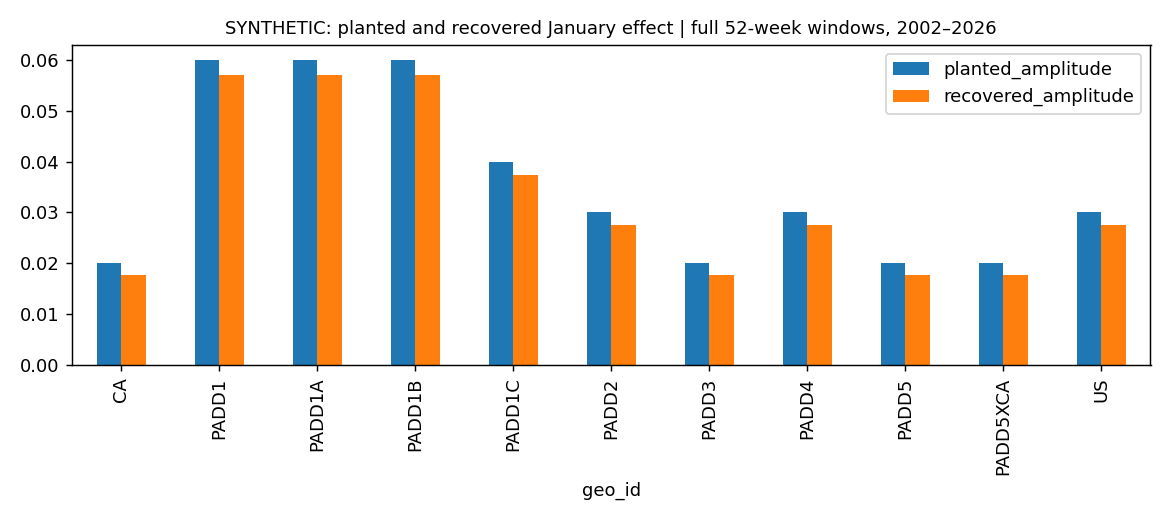
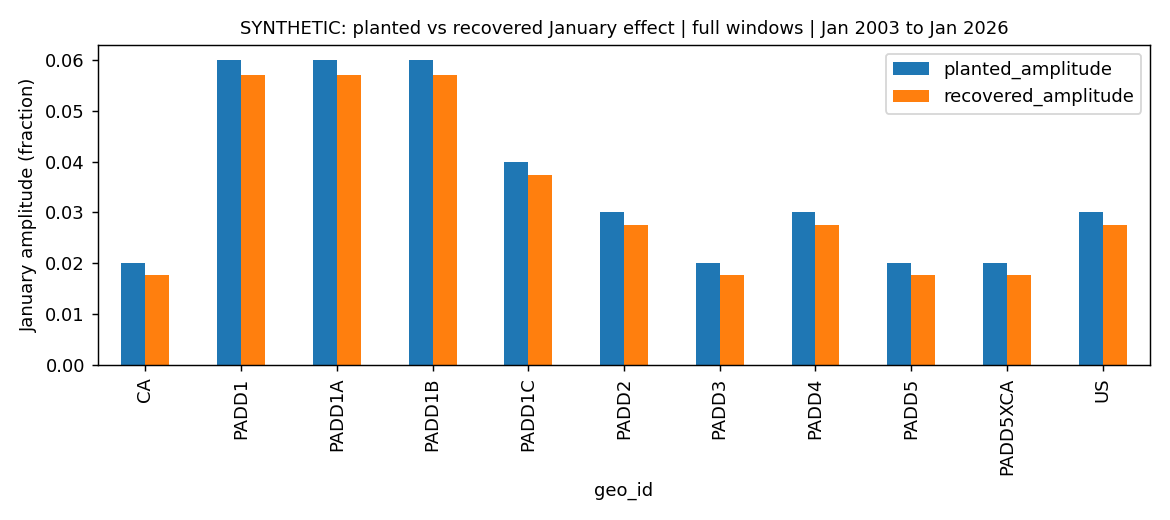
phase-8: prepare documented public synthetic preview

diff --git a/local/write_reports.py b/local/write_reports.py
@@ -42,6 +42,7 @@ The next stage is real-source profiling and contract validation. Synthetic outpu
  validations=['Named checks map to all BR/FR/NFR IDs in docs/traceability.md. The six-week example is computed in SQL.','All eight traps matched expected values. Six synthetic profiling answers are recorded in docs/SYNTHETIC_profile_checklist.md. The real-source gate is NOT RUN.','Initial 14,163 accepted rows; incremental 14,174; repeat unchanged; corrupt week blocked. 44 normalized dates, 2 initial quarantines and 5 missing clean pairs.','85,044 scenario rows. The planted PADD4 March 2011 monthly reset moves to March 28; other reset periods have no substitutions.','INV-01 through INV-05 pass. E1 and E3 pass all regions. E2 passes both regimes. Exact errors and confusion matrix are saved as CSVs.','All four app pages and a PADD4 quarterly/clause selection passed AppTest. Prose numbers trace to SQL result rows. Snowflake app NOT RUN.','Local checks and two local teardown calls pass. Snowflake execution/teardown and live weekly operation are NOT RUN. Deployment remains gated.']
  fixes=['The owner approved passing unchanged reruns, resolving the BR-17 conflict.','DuckDB rejected rows as an implicit alias; it was renamed row_count. Expected counts stayed unchanged.','A last-reviewed source-state audit avoids repeatedly treating quarantined history as new. Valid correction/reversion tests passed.','Date joins enforce exact calendar lags and four-week comparisons; missing observations are not filled.','DuckDB rejected weeks and error as implicit aliases; explicit aliases fixed them. Final repeatability checks exposed sensitivity state leaking into baseline outputs. Each sensitivity scenario now runs in a transaction that is rolled back, with assertions that both parameters and weekly rows are unchanged. No source values or expected answers were changed.','App tests revealed a Streamlit width deprecation; the argument was updated.','A report-generation command initially used the wrong working directory and wrote no files; rerunning from the project parent fixed it. GitHub sign-in was required to create the repository.']
  lessons=[('Shared formulas isolate timing.','Region is a dimension, not a lever.','The zero control proves the baseline.','Exposure is created in contracting.'),('Raw values complement metadata.','Ten regions were absent from the index.','Decoys test source selection.','National-only data can still support the mechanism.'),('Transactions protect accepted state.','Corruption leaves accepted history unchanged.','Repeatability includes no-op reruns.','Block a bad batch before pricing analysis.'),('FIRST_VALUE holds reset prices.','A missing reset moves to the next available week.','Shared lags preserve the control.','Different schedules create exposure.'),('Summaries reconcile to detail.','Recovery is expected for planted effects.','Positive means can hide adverse weeks.','Review downside distributions.'),('Model views serve the app.','Freshness follows accepted observations.','Narration uses existing numbers.','A markup requires commercial acceptance.'),('Phase branches preserve review history.','Real and synthetic data remain separate.','Local success is not deployment proof.','Scaling requires contract and volume evidence.')]
+ validation_tables=['| Check | Expected | Observed | Status |\n|---|---|---|---|\n| Six-week worked example | Six displayed weeks, nonnegative carrier surcharge | Six rows; carrier surcharge floors at zero | PASS |\n| Identical initial reset | Zero first-week spread | 0.000000 | PASS |', '| Check | Expected | Observed | Status |\n|---|---|---|---|\n| Source records | 14,947 | 14,947 | PASS |\n| Planted traps | T1 through T8 detected | 8 of 8 | PASS |', '| Check | Expected | Observed | Status |\n|---|---|---|---|\n| Initial accepted records | 14,163 | 14,163 | PASS |\n| Accepted after valid update | 14,174 | 14,174 | PASS |\n| Unchanged rerun | 0 inserts, 0 updates | 0 inserts, 0 updates | PASS |\n| Corrupt batch | BLOCKED; accepted count unchanged | BLOCKED; 14,174 | PASS |', '| Check | Expected | Observed | Status |\n|---|---|---|---|\n| Six-scenario detail | 85,044 rows | 85,044 rows | PASS |\n| PADD4 March 2011 monthly substitution | March 28 | March 28 | PASS |', '| Check | Expected | Observed | Status |\n|---|---|---|---|\n| INV-01 through INV-05 | Zero failing rows | Zero failing rows | PASS |\n| E1 maximum error | At most 1 percentage point | 0.29374 percentage points | PASS |\n| E2 rising / falling | At least 70% each | 93.59% / 89.74% | PASS |\n| E3 maximum error | At most 1 percentage point | 0.05497 percentage points | PASS |\n| E4 sign compliance | 100% | 100% | PASS |', '| Check | Expected | Observed | Status |\n|---|---|---|---|\n| Local app pages | Four pages without test exceptions | Four pages pass AppTest | PASS |\n| Alternate selection | PADD4 quarterly with clause works | AppTest passes | PASS |\n| Snowflake app | Deployment evidence | Not executed | UNVERIFIED |', '| Check | Expected | Observed | Status |\n|---|---|---|---|\n| Local targeted tests | Ten pass | Ten pass in recorded rerun | PASS |\n| Local teardown | Safe repeated execution | Two calls pass in phase-6 log | PASS |\n| Snowflake deployment / teardown | Executed and reviewed | Not executed | UNVERIFIED |']
  for i in range(7):
   evidence=[str(p.relative_to(ROOT)) for p in sorted((ROOT/f'outputs/phase_{i}').glob('*')) if p.name!='REPORT.md']
   technical,data,analytical,business=lessons[i]
@@ -57,6 +58,10 @@ Sample results:
 
 {results[i]}
 Validation: {validations[i]}
+
+{validation_tables[i]}
+
+Table evidence: existing phase CSVs and outputs/review/INDEPENDENT_CHECKS.json; execution evidence is in outputs/review/RERUN_LOG.txt and outputs/phase_6/SYNTHETIC_verification_log.txt.
 
 Surprises and fixes: {fixes[i]}
 

diff --git a/local/analyze.py b/local/analyze.py
@@ -41,12 +41,12 @@ def analyze(c):
  series=c.sql("SELECT week_date,scenario_id,spread FROM model.dt_margin_spread WHERE geo_id='US' AND scenario_id IN ('S1','S3','S5') ORDER BY week_date").df()
  fig,ax=plt.subplots(figsize=(11,4))
  for s,g in series.groupby('scenario_id'):ax.plot(g.week_date,g.spread,label=s,lw=.8)
- ax.axhline(0,color='black',lw=.6);ax.legend();ax.set_ylabel('Dollars per mile');save('SYNTHETIC_spread.png','slower resets create timing exposure | US | 2002-01-07 to 2026-09-14')
+ ax.axhline(0,color='black',lw=.6);ax.legend();ax.set_ylabel('Dollars per mile');save('SYNTHETIC_spread.png','slower resets create timing exposure | US | 2002-01-07 to 2026-09-14 | includes partial current periods')
  h=regime[(regime.geo_id=='US')&(regime.scenario_id=='S5')].pivot(index='regime',columns='season',values='mean_spread')
  fig,ax=plt.subplots(figsize=(7,4));im=ax.imshow(h.values,cmap='RdBu',vmin=-.2,vmax=.2);ax.set_xticks(range(len(h.columns)),h.columns);ax.set_yticks(range(len(h.index)),h.index);fig.colorbar(im,label='Dollars per mile');save('SYNTHETIC_regime_season.png','regime and season averages | S5 US | 2002-01-07 to 2026-06-29')
  x=clause[(clause.geo_id=='US')&(clause.season=='HEATING')];x.plot.bar(x='scenario_id',y=['squeeze_without','squeeze_with'],figsize=(7,4));plt.ylim(bottom=0);plt.ylabel('Mean negative spread magnitude ($/mile)');save('SYNTHETIC_clause.png','clause reduces modeled heating squeeze | US | completed periods through 2026-08')
- seasonal.plot.bar(x='geo_id',y=['planted_amplitude','recovered_amplitude'],figsize=(9,4));plt.ylim(bottom=0);save('SYNTHETIC_recovery.png','planted and recovered January effect | full 52-week windows, 2002–2026')
- regions=pd.read_csv(out/'SYNTHETIC_regions_common_window.csv');regions[regions.scenario_id=='S5'].plot.bar(x='geo_id',y='mean_spread',figsize=(9,4));plt.axhline(0,color='black',lw=.6);save('SYNTHETIC_regions.png','same-week regional exposure comparison | S5 | 2002-01-07 to 2026-06-29')
+ seasonal.plot.bar(x='geo_id',y=['planted_amplitude','recovered_amplitude'],figsize=(9,4));plt.ylim(bottom=0);plt.ylabel('January amplitude (fraction)');save('SYNTHETIC_recovery.png','planted vs recovered January effect | full windows | Jan 2003 to Jan 2026')
+ regions=pd.read_csv(out/'SYNTHETIC_regions_common_window.csv');regions[regions.scenario_id=='S5'].plot.bar(x='geo_id',y='mean_spread',figsize=(9,4));plt.axhline(0,color='black',lw=.6);plt.ylabel('Mean spread ($/mile)');save('SYNTHETIC_regions.png','same-week regional exposure comparison | S5 | 2002-01-07 to 2026-06-29')
  # Known-answer six-week example, computed by SQL.
  export(c,"""WITH v AS (SELECT * FROM (VALUES (DATE '2026-01-05',2.45),(DATE '2026-01-12',2.75),(DATE '2026-01-19',3.05),(DATE '2026-01-26',2.15),(DATE '2026-02-02',1.25),(DATE '2026-02-09',1.10)) t(week_date,price)), f AS (SELECT *,GREATEST(0,(price-1.25)/6) carrier_fsc,GREATEST(0,(FIRST_VALUE(price) OVER(ORDER BY week_date)-1.25)/6) shipper_fsc FROM v) SELECT *,shipper_fsc-carrier_fsc spread FROM f ORDER BY week_date""",'outputs/phase_0/SYNTHETIC_six_week_example.csv')
  # SQL-derived memo rows used verbatim by report writer.

diff --git a/docs/publication_status.md b/docs/publication_status.md
@@ -1,0 +1,36 @@
+# Public preview status
+
+Prepared September 25, 2026. Scope: a reproducible SYNTHETIC demonstration for readers and technical reviewers. This is not the final v0.1 release or a live small-business tool.
+
+## What visitors can use
+
+Start with the README, vision, business-flow validation, sample results and local quickstart. The app can run locally; GitHub does not host a running Streamlit app. No live dashboard URL is available. The model is intended for exploration of configured scenarios.
+
+## Follow-up to the original audit
+
+| Finding | Current disposition |
+|---|---|
+| F-01 validation tables | Added expected/observed/status tables to seven phase reports and their formatter, using existing evidence |
+| F-02 Snowflake INV-03 | OPEN: local idempotency passes, but the Snowflake validation file omits its equivalent. Requires a separately scoped SQL/test change before deployment |
+| F-03 report evidence link | Added the phase-6 verification-log link |
+| F-04 timestamp difference | Expected run metadata; analytical data is unaffected |
+| F-05 GitHub closure | Publishing through sequential PR merges; final tag deferred. Connection test is to be closed without merging; its branch may remain as historical evidence |
+| F-06 numeric SQL order | Follow README dependency order, not filename sorting |
+| F-07 ignore patterns | Added desktop and notebook checkpoint patterns |
+| F-08 owner learnings | OPEN: docs/LEARNINGS.md is preserved historical agent-generated text, not verified owner testimony. README discloses this; owner rewrite required before presenting it as personal experience |
+| F-09 reader orientation | Motivation, business scope, author, license and source-validation links are present |
+| F-10 chart units | Added regional and January-amplitude units and clarified January date coverage |
+| F-11 partial periods | Weekly spread chart explicitly identifies inclusion of partial current periods |
+
+The original audit remains intact as evidence of its earlier snapshot. Passing local checks does not resolve business-validation or Snowflake gaps. Later business-source review also qualified claims in the original vision; see business_flow_validation.md.
+
+Track these items in [GitHub issue #11](https://github.com/tarunL2203/fuel-surcharge-timing-gap/issues/11).
+
+## Still required for a completed release or real use
+
+- Resolve Snowflake idempotency validation and execute the deployment, permissions, refresh, scheduling and teardown checks.
+- Replace historical agent-written learnings with the owner's own words.
+- Validate actual paired contracts and shipment invoices with an operator; no financial benefit is proven.
+- Confirm source access, terms, live freshness, operating costs and responsibility for exceptions.
+
+Public sharing is for feedback on a work-in-progress sample. No production certification, savings claim or final release tag is implied.

diff --git a/README.md b/README.md
@@ -1,6 +1,8 @@
 # The Broker’s Two Clocks
 
-**SYNTHETIC DRY RUN • Reviewable sample • Snowflake execution unverified**
+**PUBLIC SYNTHETIC PREVIEW • Local demonstration • Snowflake execution unverified**
+
+Ready to explore as a documented sample. Not a production tool or a completed commercial validation. See [current publication status](docs/publication_status.md) for open work. The historical first-person entries in docs/LEARNINGS.md were agent-generated and have not been confirmed as the owner’s personal experience.
 
 Freight brokers can pay a weekly carrier fuel surcharge while collecting a monthly or quarterly shipper surcharge. This project isolates that timing gap, validates it against known answers and prepares a Snowflake deployment track.
 
@@ -18,7 +20,7 @@ Start with the [vision](docs/00_vision.md), [decision memo](docs/business_memo.m
 
 ## Run the full sample
 
-Python 3.11+ is recommended. Run from the repository root on the `phase-6` branch while its PR is open.
+Python 3.11+ is recommended. Run from the repository root after cloning the `main` branch.
 
 ```bash
 python -m venv .venv
@@ -103,10 +105,14 @@ These are test results, not findings about EIA prices or company margins. The co
 
 ## Review workflow
 
-Private repository. No direct pushes to main. Connection test uses `connection-test`; project PRs use `phase-0` through `phase-6`, stacked in that order. Review the [phase file map](docs/phase_file_map.md). The final complete snapshot is on phase-6 while reviews are open. No PR is auto-merged. A release tag is deferred until acceptance review.
+The repository is public. Changes reach main through pull requests, with phase commits retained for review. See the [phase file map](docs/phase_file_map.md), [original audit](outputs/review/AUDIT_SUMMARY.md) and [current publication status](docs/publication_status.md). The audit describes its original snapshot; current status records subsequent fixes and open items. A final release tag is deferred until the remaining acceptance gaps are resolved.
 
 ## Limits and disclosure
 
 All schedule values are illustrative. The regions overlap. Observations are equally weighted, not actual load volumes. The centered seasonal measure uses future data and is descriptive. The sample preserves accepted history on invalid corrections and does not silently propagate provider deletions. Live freshness, contract rules, source terms, cost behavior and operational permissions require real deployment evidence.
 
 The sample build in this repository was generated with AI assistance on synthetic data to test the method end to end. The problem framing, business rules, and validation design are the author's. Findings will come from the real run in Snowflake.
+
+## Author and license
+
+Project owner: Sai Tarun Reddy. Built with AI assistance as disclosed above. Licensed under the [MIT License](LICENSE).

diff --git a/outputs/phase_6/REPORT.md b/outputs/phase_6/REPORT.md
@@ -11,6 +11,14 @@ Sample results:
 See manifest.json and SYNTHETIC_verification_log.txt. Stacked phase pull requests preserve review order.
 Validation: Local checks and two local teardown calls pass. Snowflake execution/teardown and live weekly operation are NOT RUN. Deployment remains gated.
 
+| Check | Expected | Observed | Status |
+|---|---|---|---|
+| Local targeted tests | Ten pass | Ten pass in recorded rerun | PASS |
+| Local teardown | Safe repeated execution | Two calls pass in phase-6 log | PASS |
+| Snowflake deployment / teardown | Executed and reviewed | Not executed | UNVERIFIED |
+
+Table evidence: existing phase CSVs and outputs/review/INDEPENDENT_CHECKS.json; execution evidence is in outputs/review/RERUN_LOG.txt and outputs/phase_6/SYNTHETIC_verification_log.txt.
+
 Surprises and fixes: A report-generation command initially used the wrong working directory and wrote no files; rerunning from the project parent fixed it. GitHub sign-in was required to create the repository.
 
 Learnings:
@@ -30,4 +38,5 @@ Exit criteria: local synthetic evidence is complete with documented scope gaps i
 
 Evidence files:
 
+- `outputs/phase_6/SYNTHETIC_verification_log.txt`
 - `outputs/phase_6/manifest.json`

diff --git a/outputs/phase_4/REPORT.md b/outputs/phase_4/REPORT.md
@@ -19,6 +19,16 @@ Sample results:
 
 Validation: INV-01 through INV-05 pass. E1 and E3 pass all regions. E2 passes both regimes. Exact errors and confusion matrix are saved as CSVs.
 
+| Check | Expected | Observed | Status |
+|---|---|---|---|
+| INV-01 through INV-05 | Zero failing rows | Zero failing rows | PASS |
+| E1 maximum error | At most 1 percentage point | 0.29374 percentage points | PASS |
+| E2 rising / falling | At least 70% each | 93.59% / 89.74% | PASS |
+| E3 maximum error | At most 1 percentage point | 0.05497 percentage points | PASS |
+| E4 sign compliance | 100% | 100% | PASS |
+
+Table evidence: existing phase CSVs and outputs/review/INDEPENDENT_CHECKS.json; execution evidence is in outputs/review/RERUN_LOG.txt and outputs/phase_6/SYNTHETIC_verification_log.txt.
+
 Surprises and fixes: DuckDB rejected weeks and error as implicit aliases; explicit aliases fixed them. Final repeatability checks exposed sensitivity state leaking into baseline outputs. Each sensitivity scenario now runs in a transaction that is rolled back, with assertions that both parameters and weekly rows are unchanged. No source values or expected answers were changed.
 
 Learnings:

diff --git a/docs/DECISIONS.md b/docs/DECISIONS.md
@@ -14,3 +14,5 @@ Status: local synthetic build executed; phase review and real deployment gates a
 - D-09: configuration seeds must run before profiling/landing even though their filename is 03_seeds.sql. The README provides dependency order explicitly.
 
 - D-10, owner request September 24, 2026: present explanations for a general reader instead of mentor/interview prompts. Current vision and business context distinguish sourced business facts from model assumptions; docs/business_flow_validation.md records the evidence gaps. These reader-facing explanations intentionally supersede the original brief’s copied vision wording. This is a documentation clarification, not a change to model rules, inputs or acceptance thresholds. The original brief and audit remain historical records.
+
+- D-11, September 25, 2026: owner requested necessary GitHub publication steps. The repository was already public when checked. Publish a clearly labeled synthetic preview through PR merges, preserving the original audit and open acceptance gaps. This is not final-release or production sign-off. No direct main push.

diff --git a/outputs/phase_2/REPORT.md b/outputs/phase_2/REPORT.md
@@ -17,6 +17,15 @@ Sample results:
 
 Validation: Initial 14,163 accepted rows; incremental 14,174; repeat unchanged; corrupt week blocked. 44 normalized dates, 2 initial quarantines and 5 missing clean pairs.
 
+| Check | Expected | Observed | Status |
+|---|---|---|---|
+| Initial accepted records | 14,163 | 14,163 | PASS |
+| Accepted after valid update | 14,174 | 14,174 | PASS |
+| Unchanged rerun | 0 inserts, 0 updates | 0 inserts, 0 updates | PASS |
+| Corrupt batch | BLOCKED; accepted count unchanged | BLOCKED; 14,174 | PASS |
+
+Table evidence: existing phase CSVs and outputs/review/INDEPENDENT_CHECKS.json; execution evidence is in outputs/review/RERUN_LOG.txt and outputs/phase_6/SYNTHETIC_verification_log.txt.
+
 Surprises and fixes: A last-reviewed source-state audit avoids repeatedly treating quarantined history as new. Valid correction/reversion tests passed.
 
 Learnings:

diff --git a/outputs/phase_5/REPORT.md b/outputs/phase_5/REPORT.md
@@ -19,6 +19,14 @@ Sample results:
 
 Validation: All four app pages and a PADD4 quarterly/clause selection passed AppTest. Prose numbers trace to SQL result rows. Snowflake app NOT RUN.
 
+| Check | Expected | Observed | Status |
+|---|---|---|---|
+| Local app pages | Four pages without test exceptions | Four pages pass AppTest | PASS |
+| Alternate selection | PADD4 quarterly with clause works | AppTest passes | PASS |
+| Snowflake app | Deployment evidence | Not executed | UNVERIFIED |
+
+Table evidence: existing phase CSVs and outputs/review/INDEPENDENT_CHECKS.json; execution evidence is in outputs/review/RERUN_LOG.txt and outputs/phase_6/SYNTHETIC_verification_log.txt.
+
 Surprises and fixes: App tests revealed a Streamlit width deprecation; the argument was updated.
 
 Learnings:

diff --git a/outputs/phase_0/REPORT.md b/outputs/phase_0/REPORT.md
@@ -19,6 +19,13 @@ Sample results:
 
 Validation: Named checks map to all BR/FR/NFR IDs in docs/traceability.md. The six-week example is computed in SQL.
 
+| Check | Expected | Observed | Status |
+|---|---|---|---|
+| Six-week worked example | Six displayed weeks, nonnegative carrier surcharge | Six rows; carrier surcharge floors at zero | PASS |
+| Identical initial reset | Zero first-week spread | 0.000000 | PASS |
+
+Table evidence: existing phase CSVs and outputs/review/INDEPENDENT_CHECKS.json; execution evidence is in outputs/review/RERUN_LOG.txt and outputs/phase_6/SYNTHETIC_verification_log.txt.
+
 Surprises and fixes: The owner approved passing unchanged reruns, resolving the BR-17 conflict.
 
 Learnings:

diff --git a/outputs/phase_1/REPORT.md b/outputs/phase_1/REPORT.md
@@ -21,6 +21,13 @@ Sample results:
 
 Validation: All eight traps matched expected values. Six synthetic profiling answers are recorded in docs/SYNTHETIC_profile_checklist.md. The real-source gate is NOT RUN.
 
+| Check | Expected | Observed | Status |
+|---|---|---|---|
+| Source records | 14,947 | 14,947 | PASS |
+| Planted traps | T1 through T8 detected | 8 of 8 | PASS |
+
+Table evidence: existing phase CSVs and outputs/review/INDEPENDENT_CHECKS.json; execution evidence is in outputs/review/RERUN_LOG.txt and outputs/phase_6/SYNTHETIC_verification_log.txt.
+
 Surprises and fixes: DuckDB rejected rows as an implicit alias; it was renamed row_count. Expected counts stayed unchanged.
 
 Learnings:

diff --git a/outputs/phase_3/REPORT.md b/outputs/phase_3/REPORT.md
@@ -31,6 +31,13 @@ Sample results:
 
 Validation: 85,044 scenario rows. The planted PADD4 March 2011 monthly reset moves to March 28; other reset periods have no substitutions.
 
+| Check | Expected | Observed | Status |
+|---|---|---|---|
+| Six-scenario detail | 85,044 rows | 85,044 rows | PASS |
+| PADD4 March 2011 monthly substitution | March 28 | March 28 | PASS |
+
+Table evidence: existing phase CSVs and outputs/review/INDEPENDENT_CHECKS.json; execution evidence is in outputs/review/RERUN_LOG.txt and outputs/phase_6/SYNTHETIC_verification_log.txt.
+
 Surprises and fixes: Date joins enforce exact calendar lags and four-week comparisons; missing observations are not filled.
 
 Learnings:
